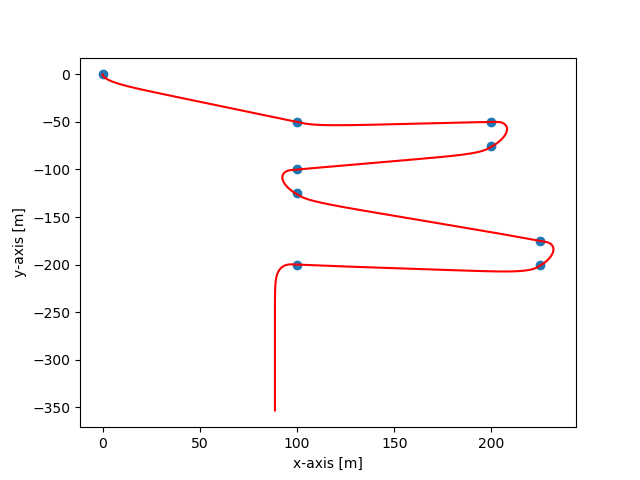
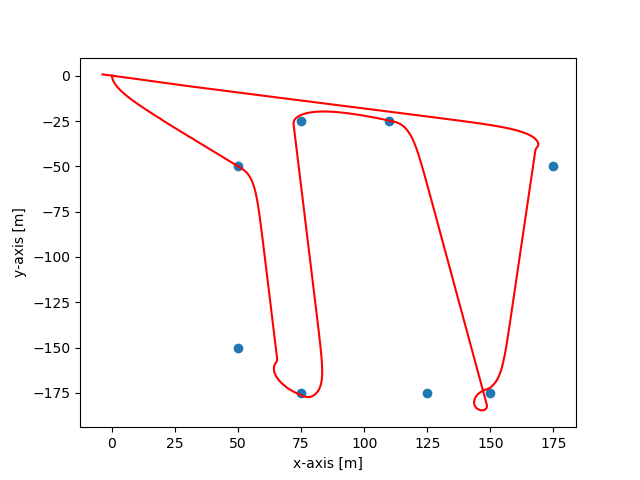
Major modification: re-downloaded moos-ivp-extend tree and moved (while trying to conserve metadata) all prior moos-ivp-ucsb files, such that this git repository can be downloaded into the same directory as the user's moos-ivp directory, and then could add it's bin/ directory to the PATH and run wit

diff --git a/missions/farm_w_sams_executive/mission_analysis/sample_data_plots.py b/missions/farm_w_sams_executive/mission_analysis/sample_data_plots.py
@@ -12,8 +12,13 @@ row_count = sum(1 for row in pos_file)  # fileObject is your csv.reader
 print ("Data file has  ",row_count," lines in it")
 data = np.genfromtxt('../position_output.csv', delimiter=',',names=['x', 'y'])
 
-wpx = [0,100,200,200,100,100,225,225,100];
-wpy = [0,-50,-50,-75,-100,-125,-175,-200,-200];
+# Farm version #1 (~horizontal lines)
+#wpx = [0,100,200,200,100,100,225,225,100];
+#wpy = [0,-50,-50,-75,-100,-125,-175,-200,-200];
+# Farm version #2 (~vertical lines)
+wpx = [50,50,75,75,110,125,150,175];
+wpy = [-50,-150,-175,-25,-25,-175,-175,-50];
+
 
 print("Generating graph: ")
 fig = plt.figure()  # Generates figure
@@ -26,5 +31,3 @@ ax.set_ylabel('y-axis [m]')
 
 plt.show()
 fig.savefig("graph.png")
-
-quit()

diff --git a/src/pSAMSExecutive/SAMSExecutive.cpp b/src/pSAMSExecutive/SAMSExecutive.cpp
@@ -199,6 +199,8 @@ bool SAMSExecutive::Iterate()
 
 bool SAMSExecutive::OnStartUp()
 {
+  cout << "From moos-ivp-UCSB" << endl;
+
   list<string> sParams;
   m_MissionReader.EnableVerbatimQuoting(false);
   m_MissionReader.GetConfiguration(GetAppName(), sParams);
